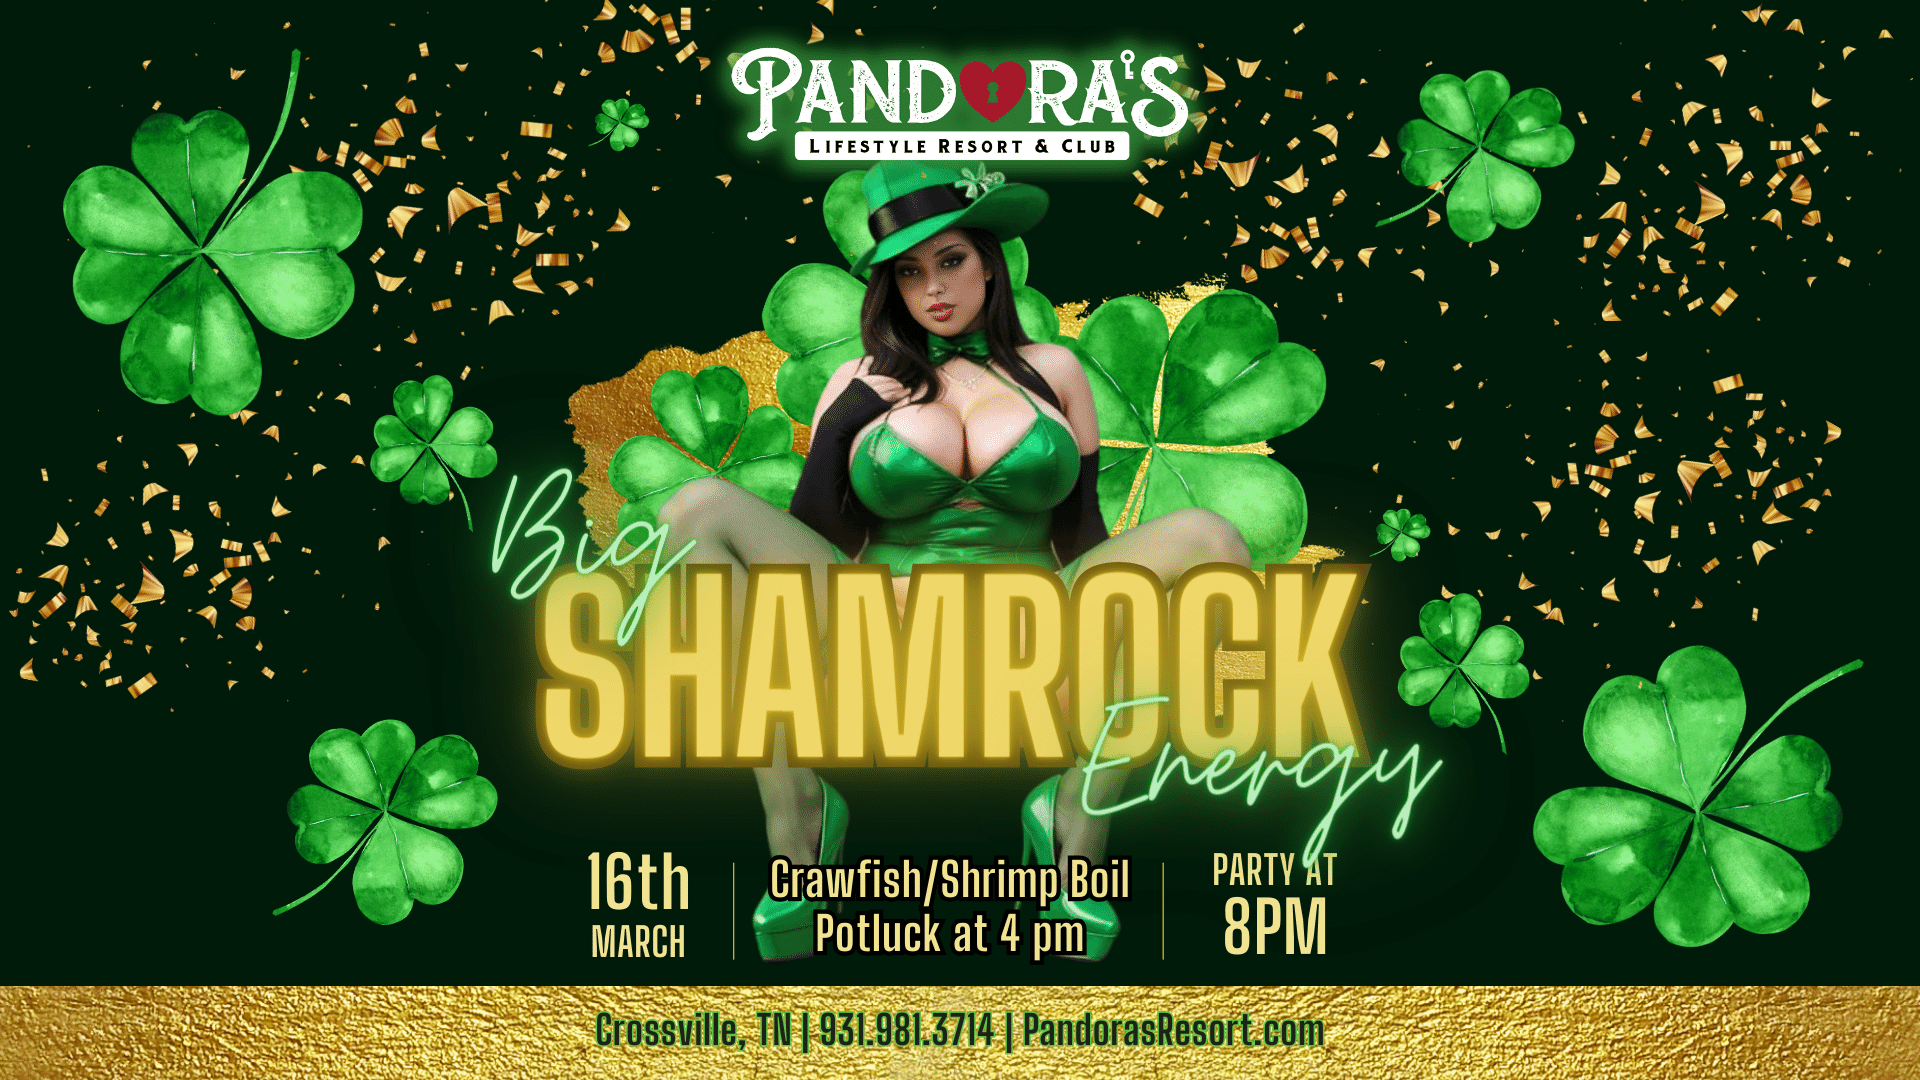
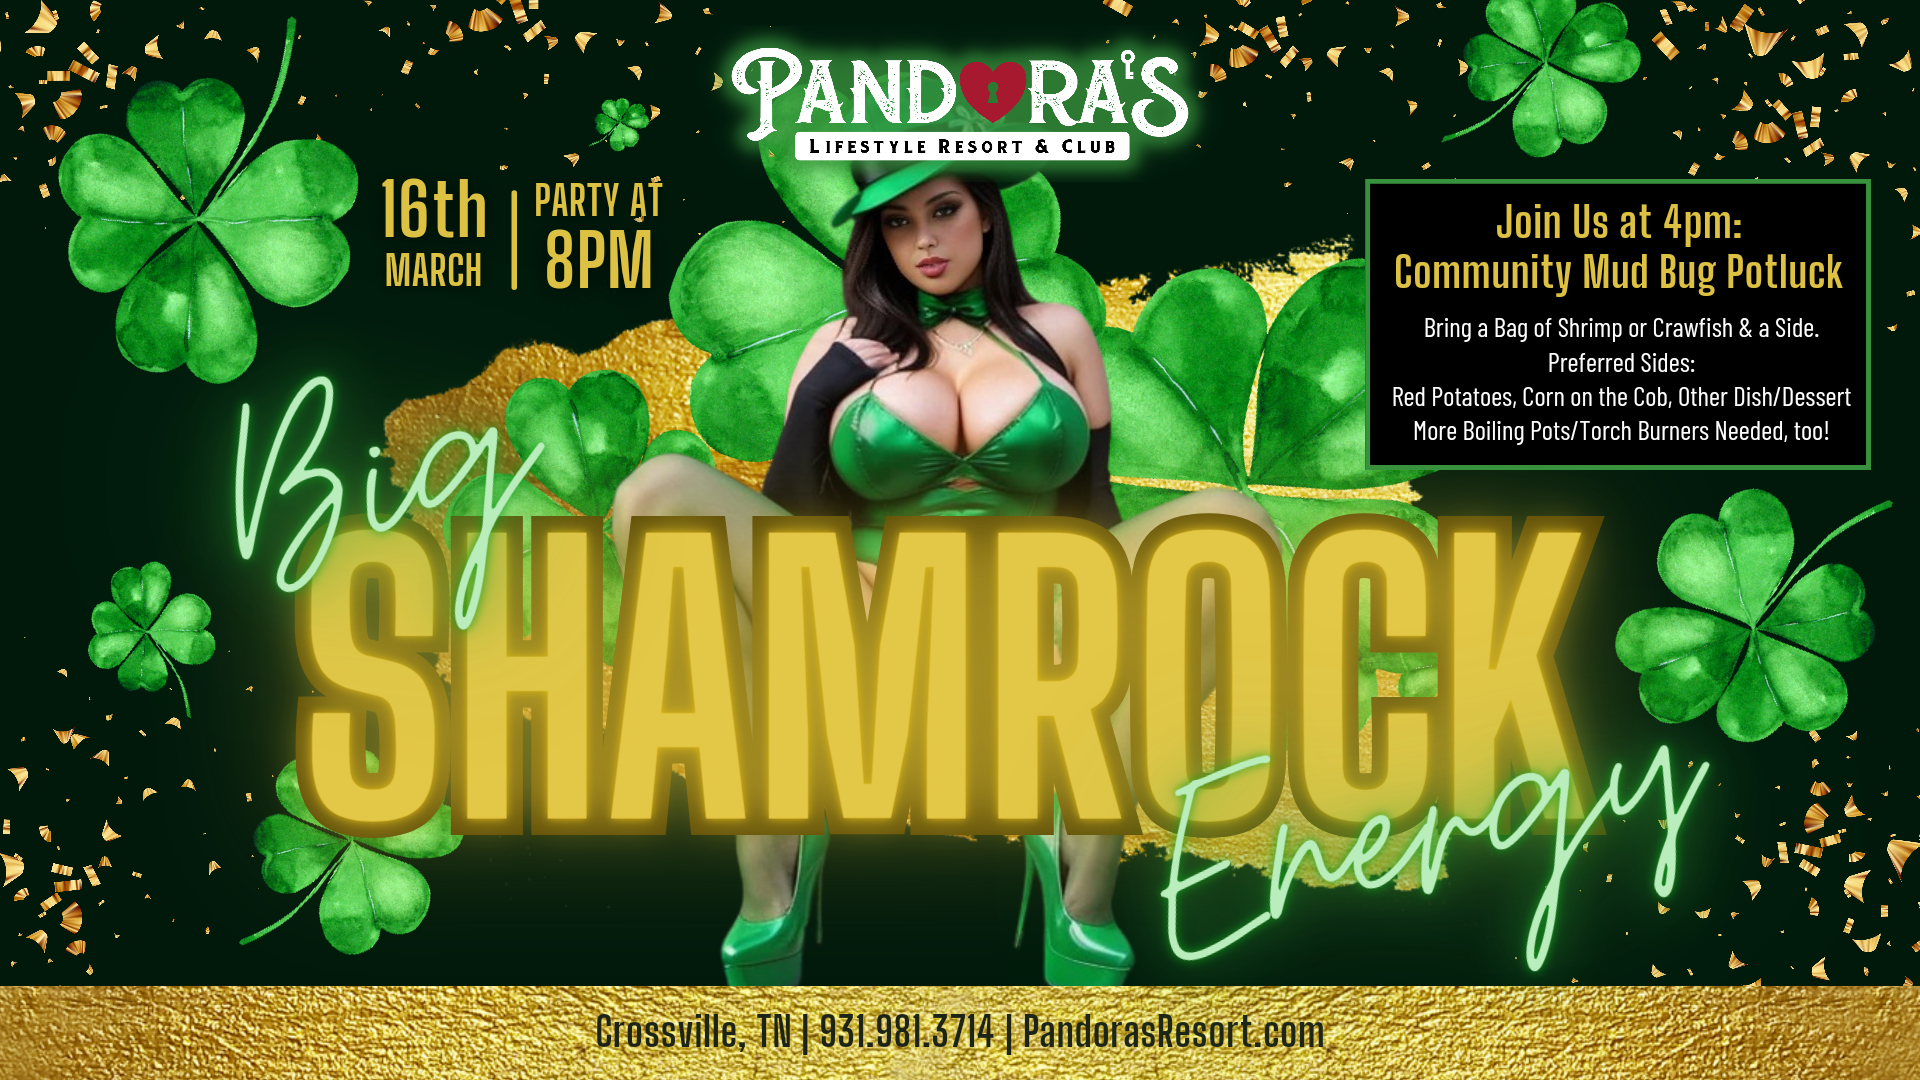
flyers updated

diff --git a/index.html b/index.html
@@ -317,8 +317,6 @@
    <bright-section id="events">
       <h2>Upcoming Events at Pandora's Resort</h2>
       <bright-gallery-scroller item-width="380px" gap="8px">
-         <img src="/images/flyers/20240301 Fetish Friday (TV,Horz).png"/>
-         <img src="/images/flyers/20240302 Slutfest (TV,Horz).png"/>
          <img src="/images/flyers/20240309 Fantasy Creatures (1920x1080).png"/>
          <img src="/images/flyers/20240316 Big Shamrock Energy (1920x1080).png"/>
          <img src="/images/flyers/20240323 Second Chance Prom (Presentation).png"/>
@@ -334,8 +332,6 @@
       <div>
          <h2>Upcoming Weekend Themes</h2>
          <pre>
-            <b>February 24</b> - 70's Disco Fever
-            <b>March 2</b> - Slutfest
             <b>March 9</b> - Fantasy Creatures
             <b>March 16</b> - St. Patty's Day 
             <b>March 23</b> - Second Chance Prom
